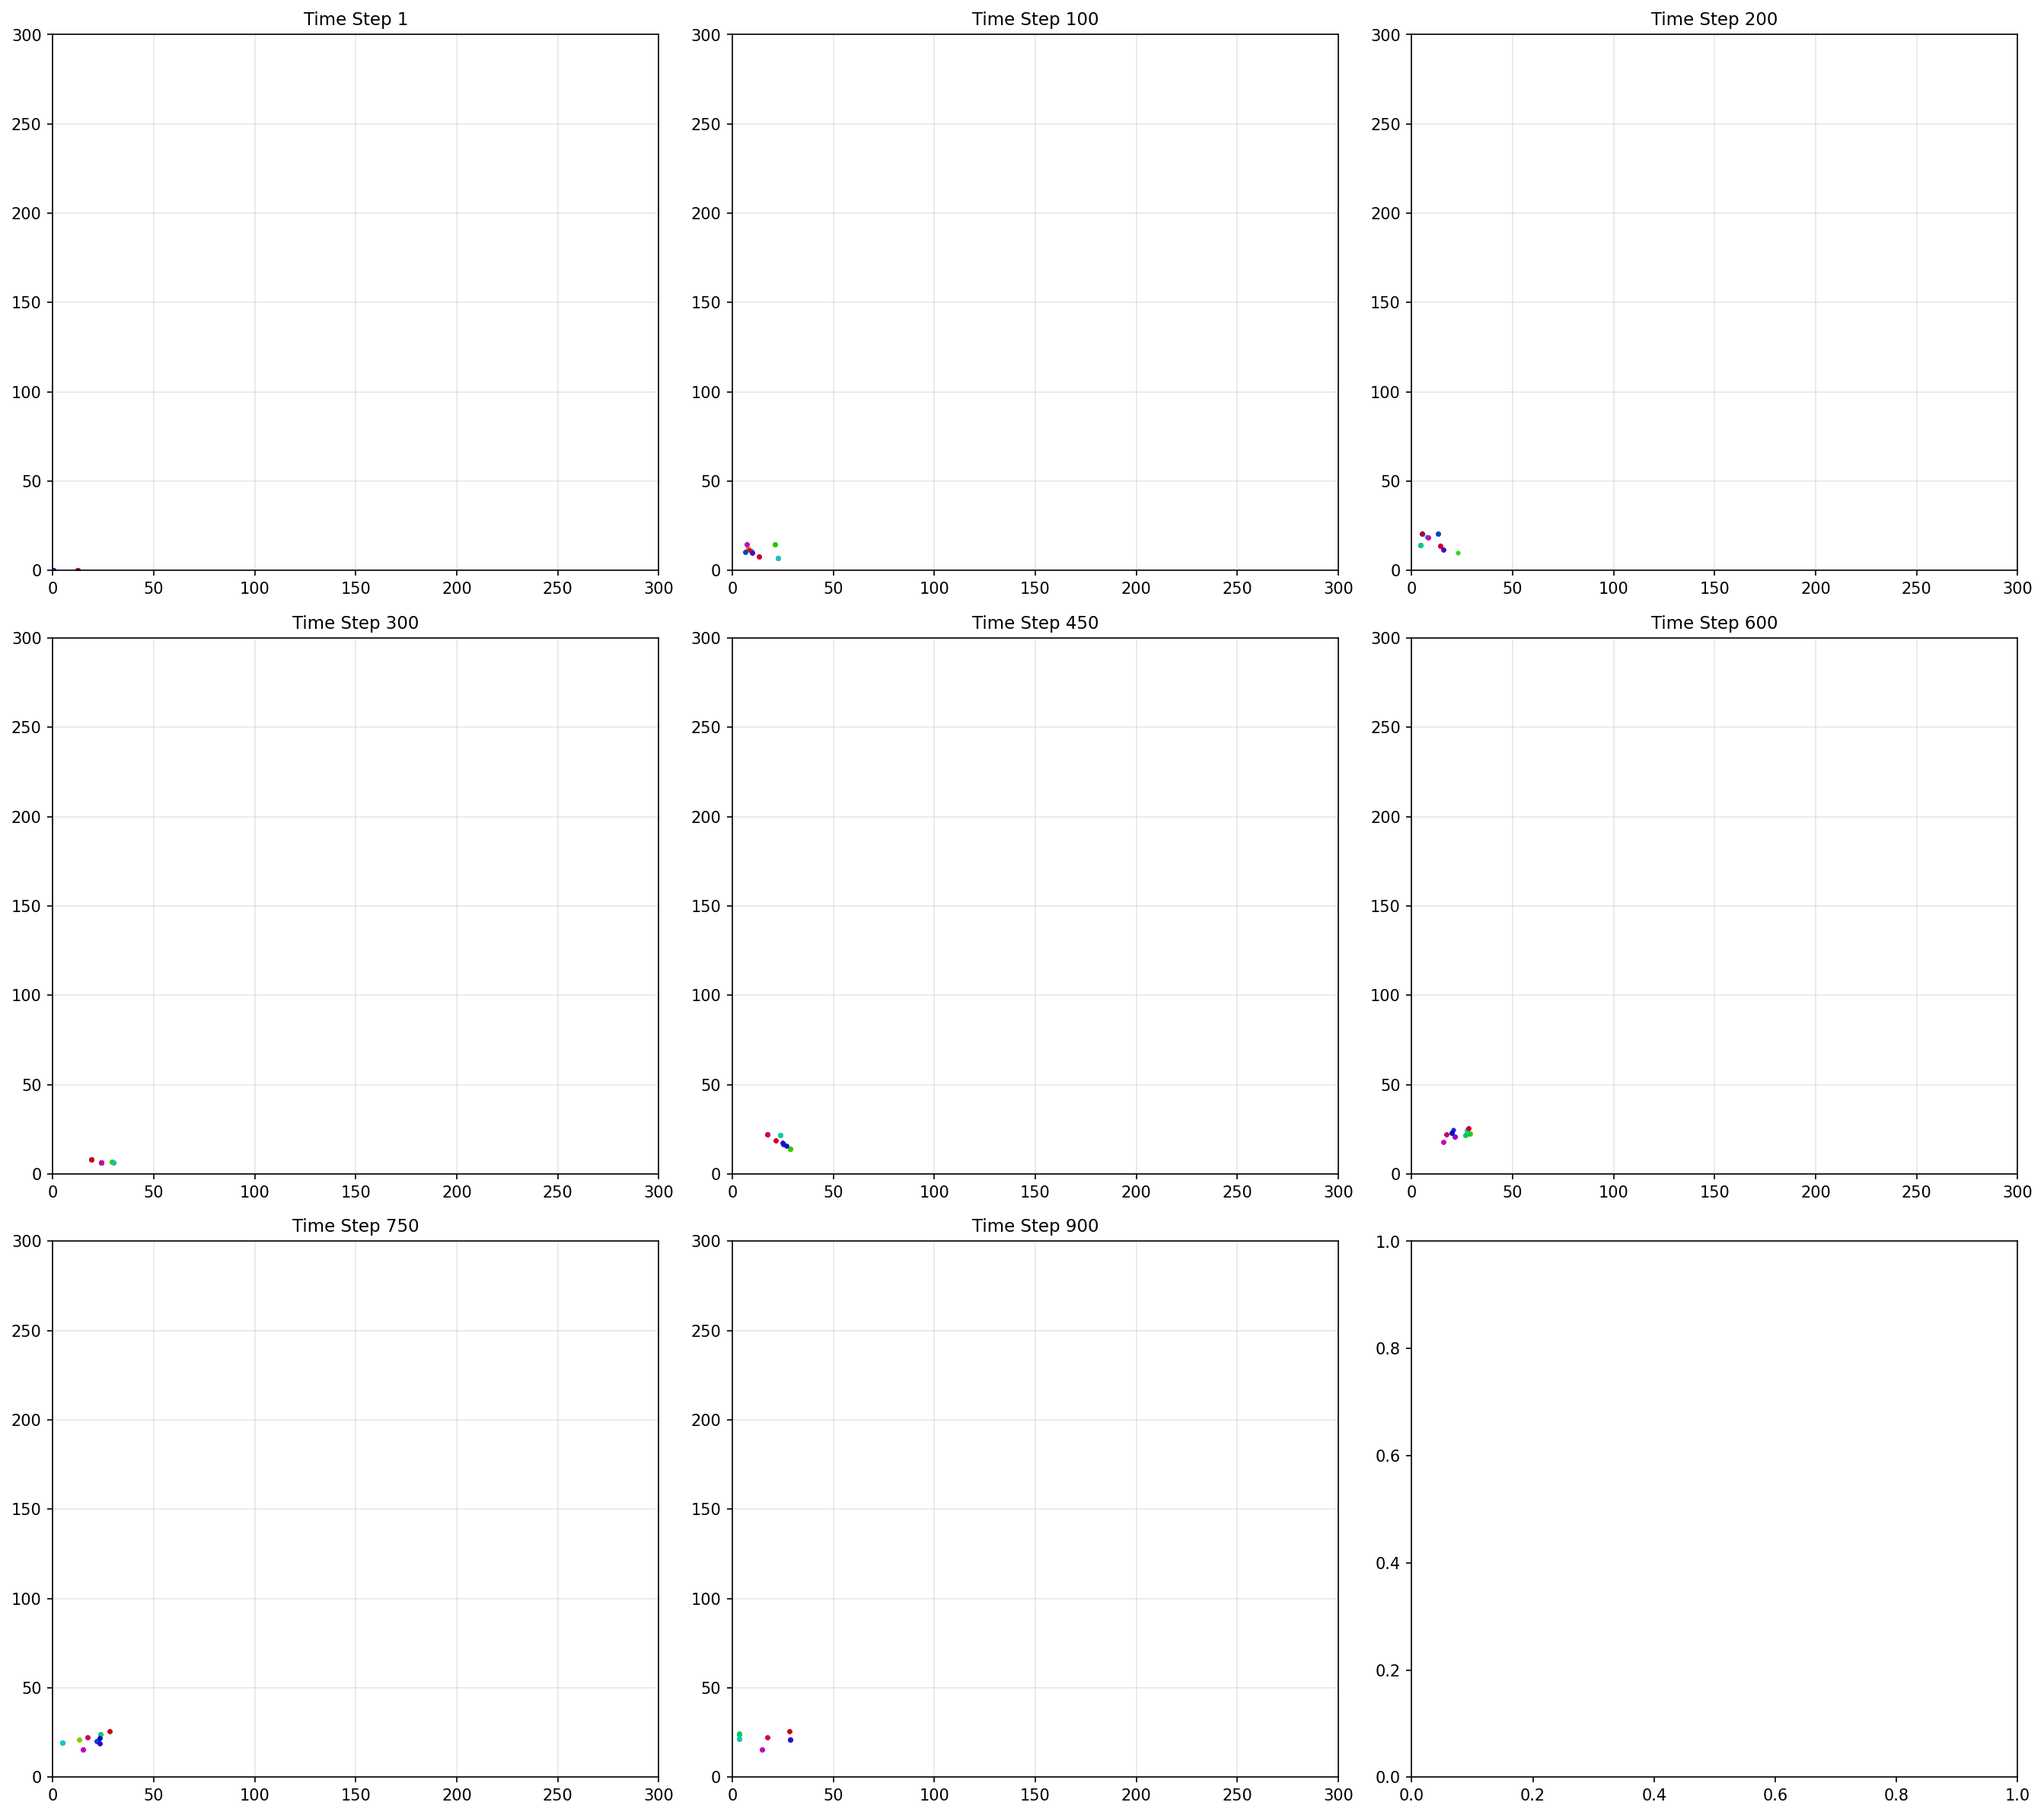
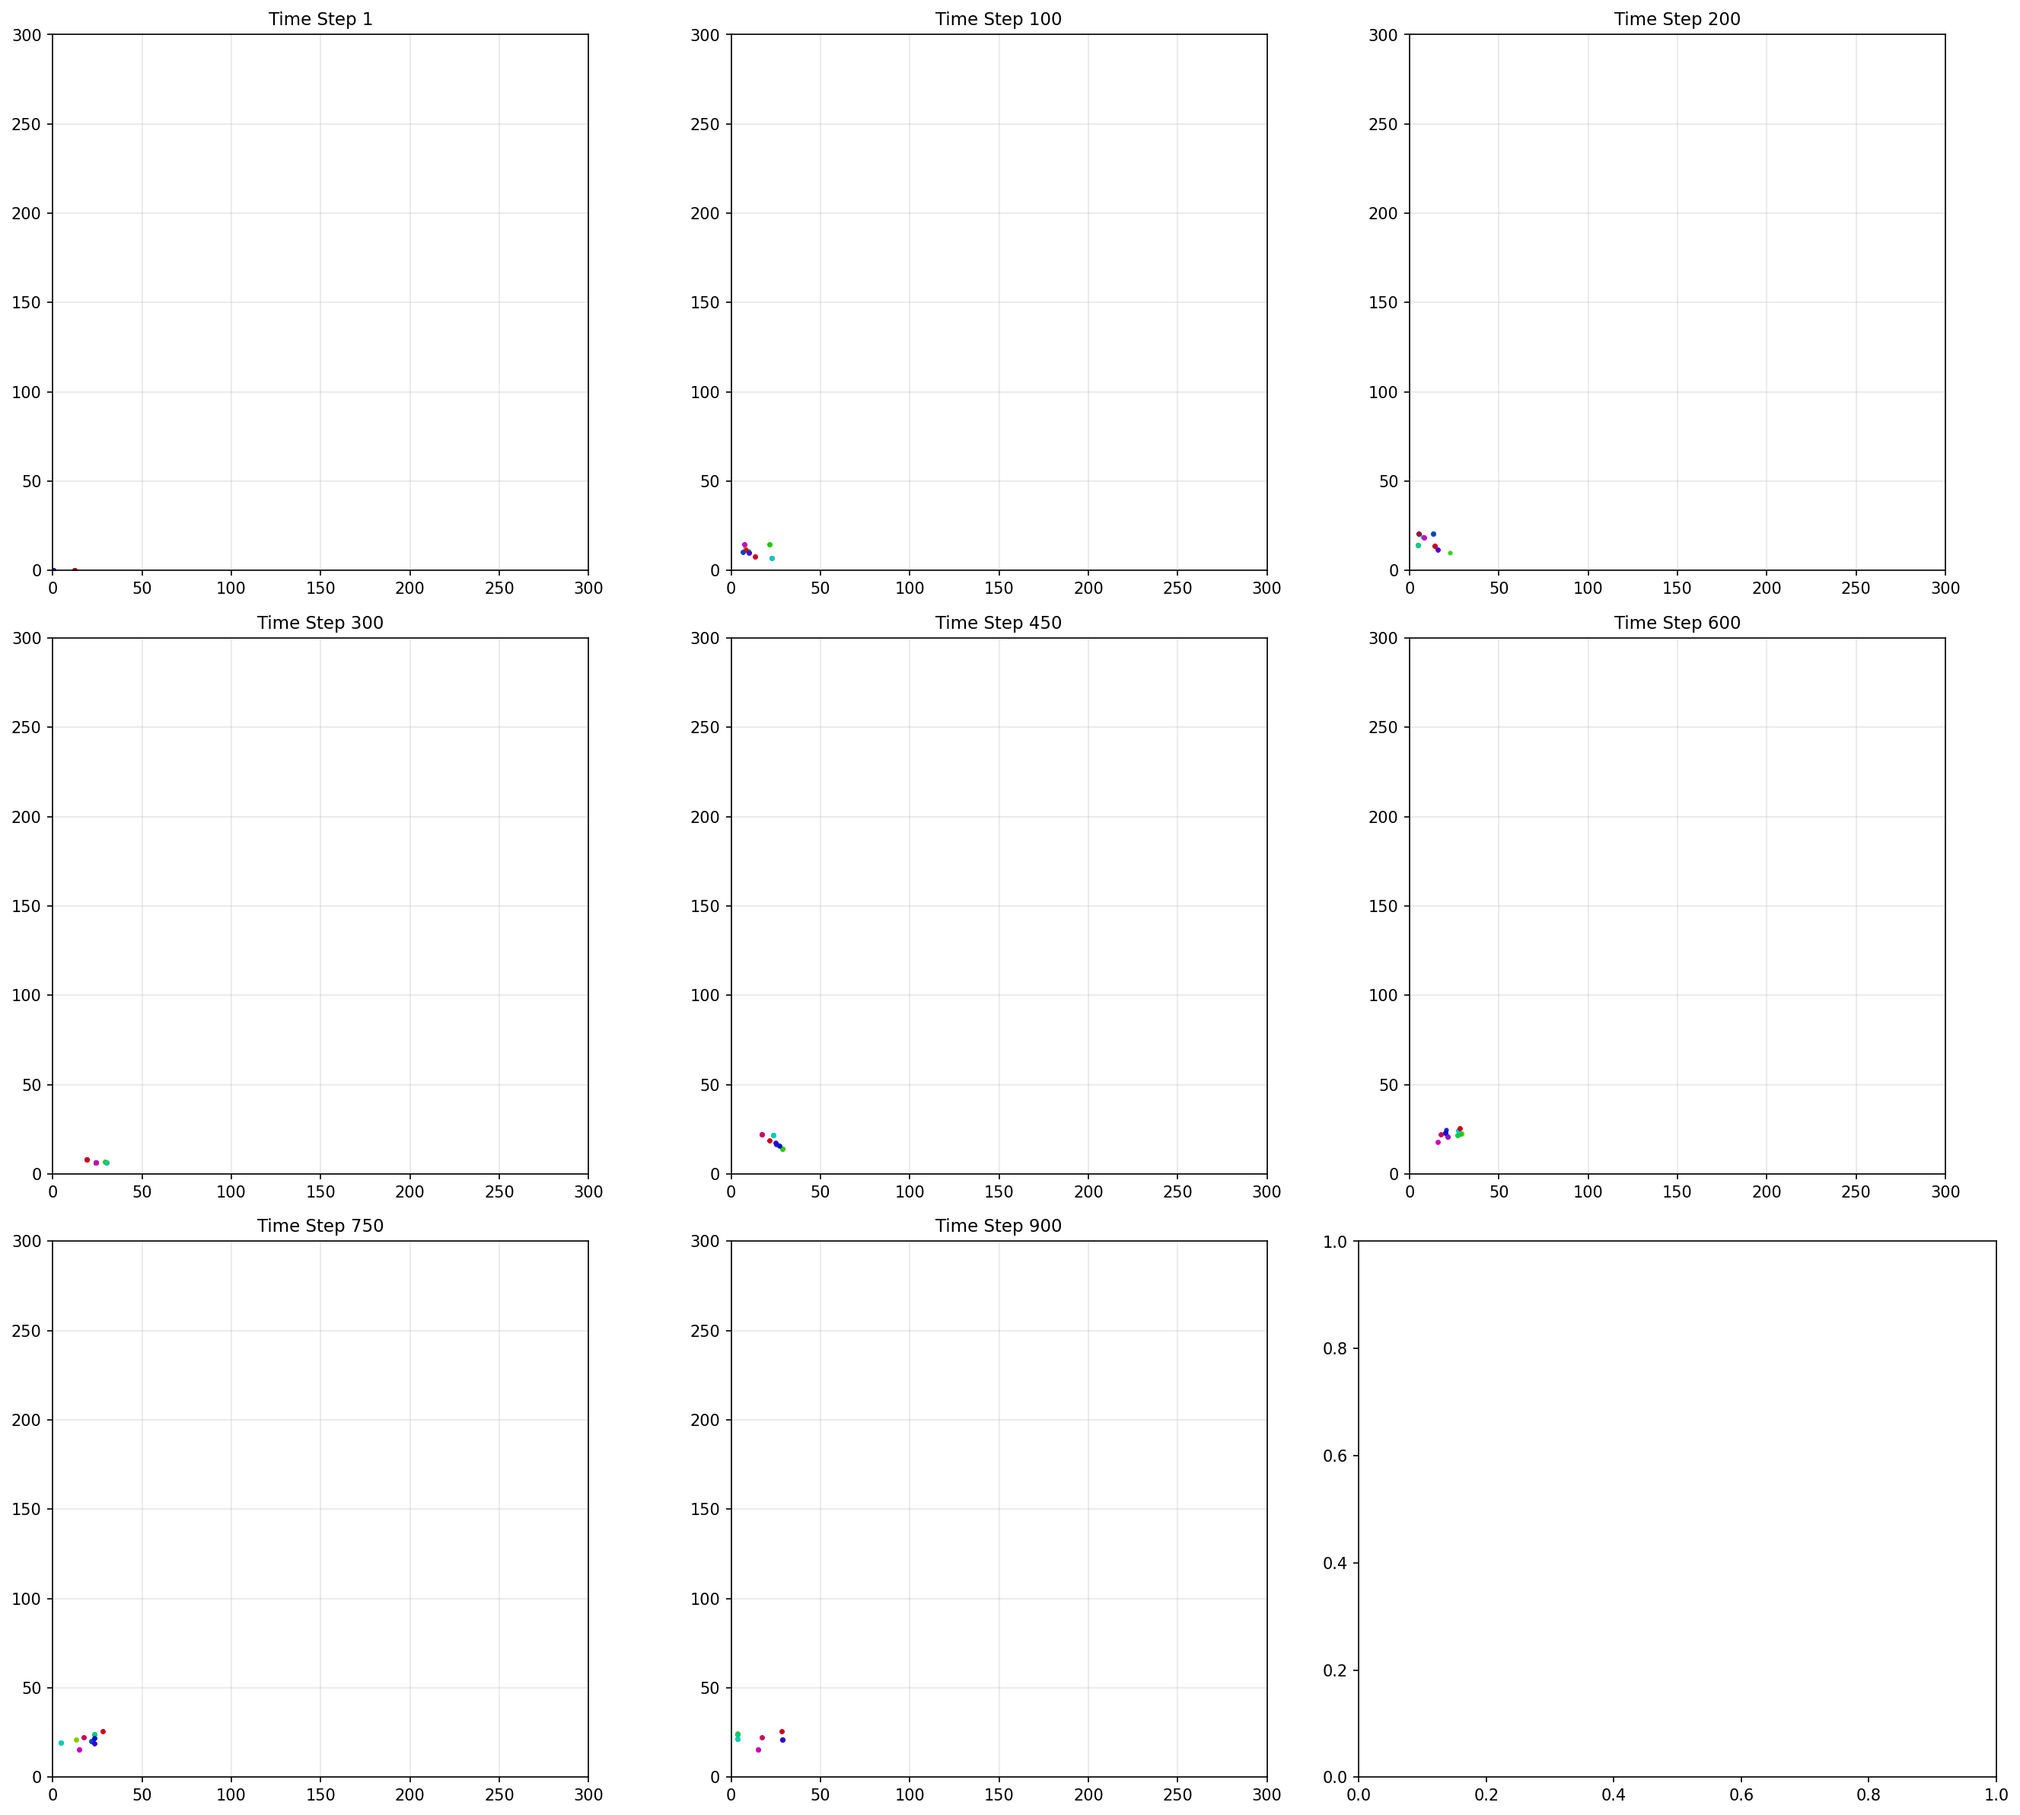
fix: 设置x和y轴等比例刻度
## 背景
用户要求图片中x和y轴使用相同的刻度范围，保持1:1比例。
使用ax.set_aspect('equal')确保坐标轴等比例。

## 改动内容
### 文件变更
- `uav_allocation_analysis/plot_uav_trajectory.py`: 更新可视化脚本
  - plot_uav_trajectories(): 添加ax.set_aspect('equal')
  - plot_time_step_final(): 添加ax.set_aspect('equal')
  - plot_time_sequence_grid(): 每个子图添加ax.set_aspect('equal')

### 技术细节
- **ax.set_aspect('equal')**: 设置x和y轴相同比例
- **刻度对齐**: 保持1:1比例，避免图形失真

## 输出说明
### 输出路径
- 更新: `uav_allocation_analysis/plot_uav_trajectory.py`
- 重新生成: `uav_allocation_analysis/*.png`

### 图片链接
https://maas-log-prod.cn-wlcb.ufileos.com/anthropic/5f34ad05-26e2-40a9-a6c2-7a5ff13ed2ad/D:\zyt\git_ln\path_agent\uav_allocation_analysis\uav_trajectories_full.png
https://maas-log-prod.cn-wlcb.ufileos.com/anthropic/5f34ad05-26e2-40a9-a6c2-7a5ff13ed2ad/D:\zyt\git_ln\path_agent\uav_allocation_analysis\uav_positions_step900.png
https://maas-log-prod.cn-wlcb.ufileos.com/anthropic/5f34ad05-26e2-40a9-a6c2-7a5ff13ed2ad/D:\zyt\git_ln\path_agent\uav_allocation_analysis\uav_positions_grid.png

## 验证方法
1. 检查PNG文件正确生成
2. 验证ax.set_aspect('equal')已应用到所有绘图

diff --git a/uav_allocation_analysis/plot_uav_trajectory.py b/uav_allocation_analysis/plot_uav_trajectory.py
@@ -106,6 +106,8 @@ def plot_uav_trajectories(uav_trajectories, task_positions=None, save_path='uav_
                   fontsize=14)
     ax.grid(True, alpha=0.3, zorder=1)
     ax.legend(loc='upper right', fontsize=8, ncol=2)
+    # 设置x和y轴使用相同的刻度（等比例）
+    ax.set_aspect('equal')
 
     plt.tight_layout()
     plt.savefig(save_path, dpi=150, bbox_inches='tight')
@@ -154,6 +156,8 @@ def plot_time_step_final(data, step_idx=900, save_path='uav_positions_step900.pn
     ax.set_xlim(0, 300)
     ax.set_ylim(0, 300)
     ax.grid(True, alpha=0.3)
+    # 设置x和y轴使用相同的刻度（等比例）
+    ax.set_aspect('equal')
     ax.legend(loc='upper right', fontsize=7, ncol=2)
 
     plt.tight_layout()
@@ -188,6 +192,7 @@ def plot_time_sequence_grid(data, steps=[1, 300, 600, 900],
             col = idx % 3
             ax = axes[row, col]
         ax.set_title(f'Time Step {step}', fontsize=11)
+        ax.set_aspect('equal')  # 等比例坐标轴
 
         positions_data = {}
         for uav_id, uav_data in data['uavs'].items():
